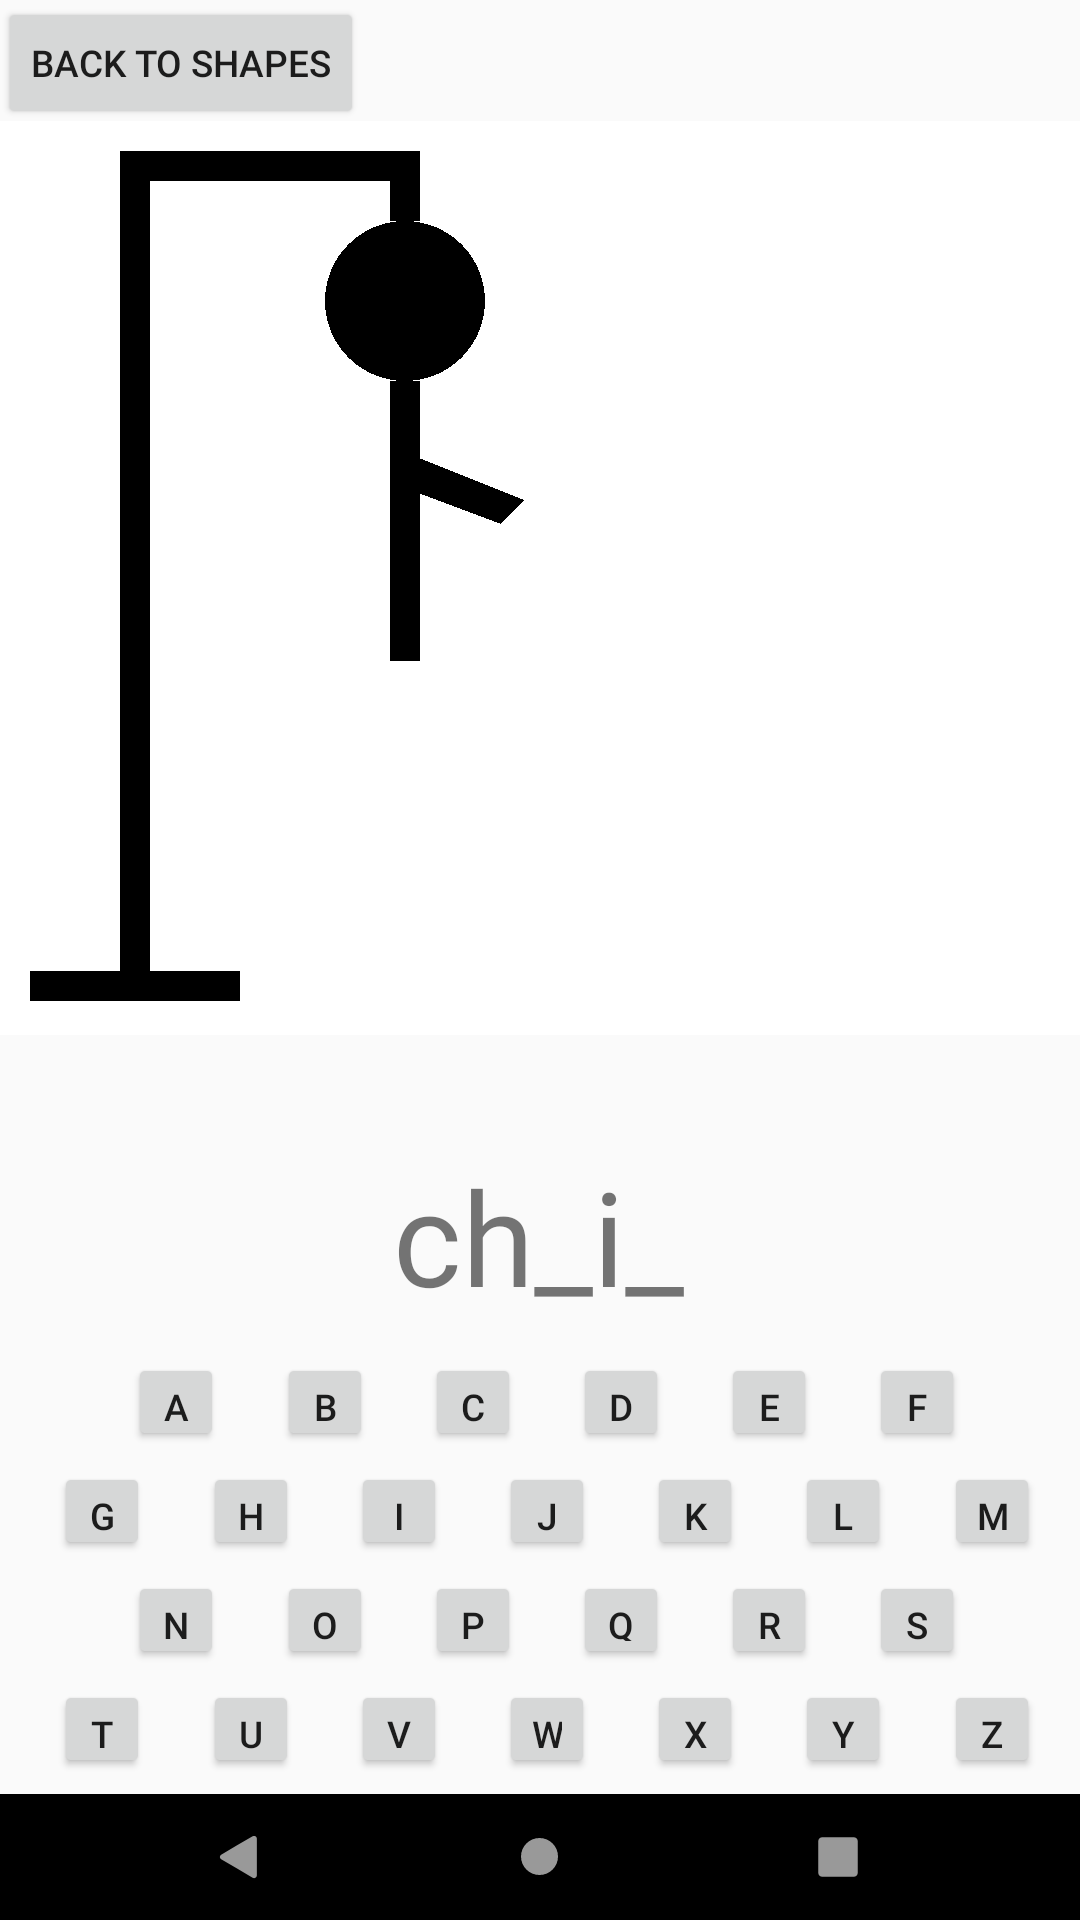
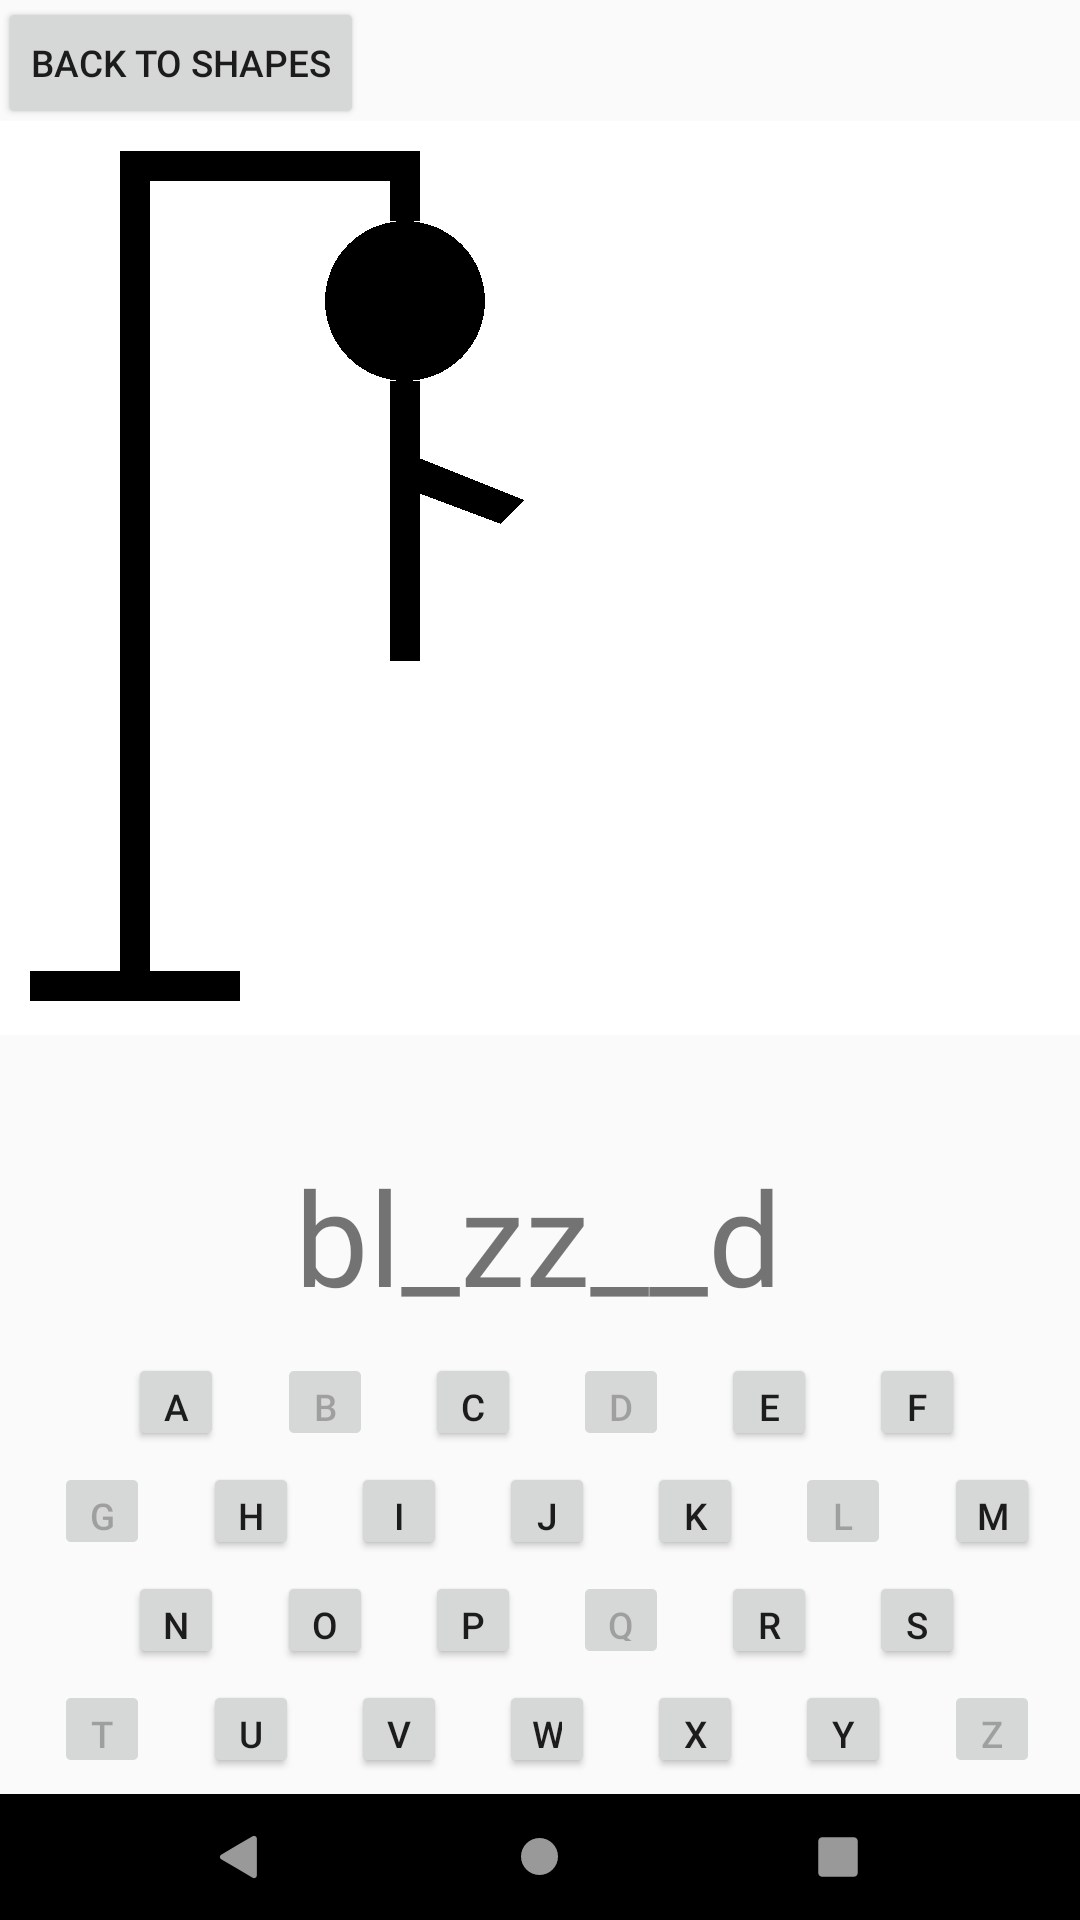
Updated screenshots

diff --git a/app/src/main/java/com/example/project2/Hangman.java b/app/src/main/java/com/example/project2/Hangman.java
@@ -95,6 +95,7 @@ public class Hangman extends AppCompatActivity implements View.OnTouchListener {
             @Override
             public void onClick(View view) {
                 check('a');
+                a.setEnabled(false);
             }
         });
 
@@ -102,6 +103,7 @@ public class Hangman extends AppCompatActivity implements View.OnTouchListener {
             @Override
             public void onClick(View view) {
                 check('b');
+                b.setEnabled(false);
             }
         });
 
@@ -109,6 +111,7 @@ public class Hangman extends AppCompatActivity implements View.OnTouchListener {
             @Override
             public void onClick(View view) {
                 check('c');
+                c.setEnabled(false);
             }
         });
 
@@ -116,6 +119,7 @@ public class Hangman extends AppCompatActivity implements View.OnTouchListener {
             @Override
             public void onClick(View view) {
                 check('d');
+                d.setEnabled(false);
             }
         });
 
@@ -123,6 +127,7 @@ public class Hangman extends AppCompatActivity implements View.OnTouchListener {
             @Override
             public void onClick(View view) {
                 check('e');
+                e.setEnabled(false);
             }
         });
 
@@ -130,6 +135,7 @@ public class Hangman extends AppCompatActivity implements View.OnTouchListener {
             @Override
             public void onClick(View view) {
                 check('f');
+                f.setEnabled(false);
             }
         });
 
@@ -137,6 +143,7 @@ public class Hangman extends AppCompatActivity implements View.OnTouchListener {
             @Override
             public void onClick(View view) {
                 check('g');
+                g.setEnabled(false);
             }
         });
 
@@ -144,6 +151,7 @@ public class Hangman extends AppCompatActivity implements View.OnTouchListener {
             @Override
             public void onClick(View view) {
                 check('h');
+                h.setEnabled(false);
             }
         });
 
@@ -151,6 +159,7 @@ public class Hangman extends AppCompatActivity implements View.OnTouchListener {
             @Override
             public void onClick(View view) {
                 check('i');
+                i.setEnabled(false);
             }
         });
 
@@ -158,6 +167,7 @@ public class Hangman extends AppCompatActivity implements View.OnTouchListener {
             @Override
             public void onClick(View view) {
                 check('j');
+                j.setEnabled(false);
             }
         });
 
@@ -165,6 +175,7 @@ public class Hangman extends AppCompatActivity implements View.OnTouchListener {
             @Override
             public void onClick(View view) {
                 check('k');
+                k.setEnabled(false);
             }
         });
 
@@ -172,6 +183,7 @@ public class Hangman extends AppCompatActivity implements View.OnTouchListener {
             @Override
             public void onClick(View view) {
                 check('l');
+                l.setEnabled(false);
             }
         });
 
@@ -179,6 +191,7 @@ public class Hangman extends AppCompatActivity implements View.OnTouchListener {
             @Override
             public void onClick(View view) {
                 check('m');
+                m.setEnabled(false);
             }
         });
 
@@ -186,6 +199,7 @@ public class Hangman extends AppCompatActivity implements View.OnTouchListener {
             @Override
             public void onClick(View view) {
                 check('n');
+                n.setEnabled(false);
             }
         });
 
@@ -193,6 +207,7 @@ public class Hangman extends AppCompatActivity implements View.OnTouchListener {
             @Override
             public void onClick(View view) {
                 check('o');
+                o.setEnabled(false);
             }
         });
 
@@ -200,6 +215,7 @@ public class Hangman extends AppCompatActivity implements View.OnTouchListener {
             @Override
             public void onClick(View view) {
                 check('p');
+                p.setEnabled(false);
             }
         });
 
@@ -207,6 +223,7 @@ public class Hangman extends AppCompatActivity implements View.OnTouchListener {
             @Override
             public void onClick(View view) {
                 check('q');
+                q.setEnabled(false);
             }
         });
 
@@ -214,6 +231,7 @@ public class Hangman extends AppCompatActivity implements View.OnTouchListener {
             @Override
             public void onClick(View view) {
                 check('r');
+                r.setEnabled(false);
             }
         });
 
@@ -221,6 +239,7 @@ public class Hangman extends AppCompatActivity implements View.OnTouchListener {
             @Override
             public void onClick(View view) {
                 check('s');
+                s.setEnabled(false);
             }
         });
 
@@ -228,6 +247,7 @@ public class Hangman extends AppCompatActivity implements View.OnTouchListener {
             @Override
             public void onClick(View view) {
                 check('t');
+                t.setEnabled(false);
             }
         });
 
@@ -235,6 +255,7 @@ public class Hangman extends AppCompatActivity implements View.OnTouchListener {
             @Override
             public void onClick(View view) {
                 check('u');
+                u.setEnabled(false);
             }
         });
 
@@ -242,6 +263,7 @@ public class Hangman extends AppCompatActivity implements View.OnTouchListener {
             @Override
             public void onClick(View view) {
                 check('v');
+                v.setEnabled(false);
             }
         });
 
@@ -249,6 +271,7 @@ public class Hangman extends AppCompatActivity implements View.OnTouchListener {
             @Override
             public void onClick(View view) {
                 check('w');
+                w.setEnabled(false);
             }
         });
 
@@ -256,6 +279,7 @@ public class Hangman extends AppCompatActivity implements View.OnTouchListener {
             @Override
             public void onClick(View view) {
                 check('x');
+                x.setEnabled(false);
             }
         });
 
@@ -263,6 +287,7 @@ public class Hangman extends AppCompatActivity implements View.OnTouchListener {
             @Override
             public void onClick(View view) {
                 check('y');
+                y.setEnabled(false);
             }
         });
 
@@ -270,6 +295,7 @@ public class Hangman extends AppCompatActivity implements View.OnTouchListener {
             @Override
             public void onClick(View view) {
                 check('z');
+                z.setEnabled(false);
             }
         });
     }
